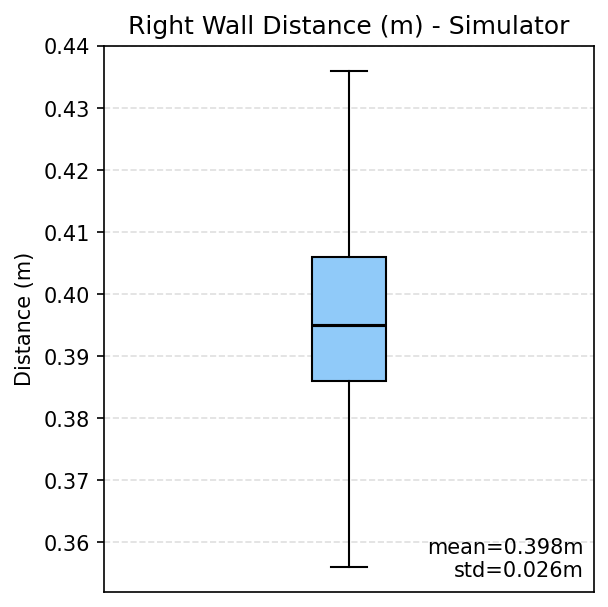
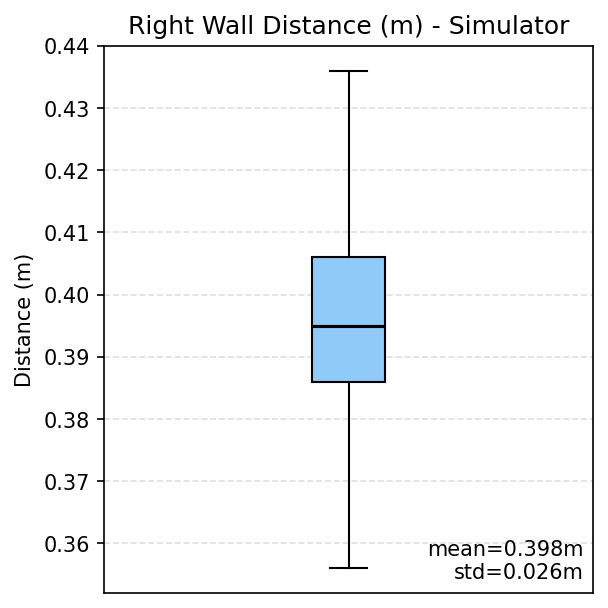
Updated the behaviour graphs to be percentage based.

diff --git a/miscellaneous/data_analysis/metrics_analysis/metrics_parser.py b/miscellaneous/data_analysis/metrics_analysis/metrics_parser.py
@@ -52,23 +52,21 @@ def is_cmd_vel_valid(action, pattern):
     linear_x, angular_z = float(m.group(1)), float(m.group(2))
     return abs(linear_x - float(p.group(1))) < 0.05 and abs(angular_z - float(p.group(2))) < 0.1
 
-def wilson_ci(count, n):
-    return proportion_confint(count, n, method="wilson")
-
 # LOAD DATA
 
 def load_trips(data_dir):
     trips = {}
-
+    device_type = ""
     for filename in os.listdir(data_dir):
         if filename.endswith(".json"):
             path = os.path.join(data_dir, filename)
             trip_type = "_".join(filename.split("_")[:-1])
+            device_type = filename.split("_")[-1].split(".")[0]
 
             with open(path, "r") as f:
                 trips[trip_type] = json.load(f)
 
-    return trips
+    return trips, device_type
 
 # COMPUTE METRICS
 
@@ -154,44 +152,59 @@ def get_wall_distances(trips):
 
 # PLOTS
 
-def plot_behaviours(outcomes):
+def plot_behaviours(outcomes, device_type):
+    valid_outcome_types = [o for o in TRIP_OUTCOMES if o != TRIP_OUTCOMES[2]]
+    valid_outcomes = {
+        t: {o: inner.get(o, 0) for o in valid_outcome_types}
+        for t, inner in outcomes.items()
+    }
+
     x = np.arange(len(TRIP_TYPES))
-    width  = 0.25
-    offset = [-1, 0, 1]
-    fig, ax = plt.subplots(figsize=(11, 4))
+    width = 0.5
+    fig, ax = plt.subplots(figsize=(8, 4))
 
-    for i, outcome in enumerate(TRIP_OUTCOMES):
-        values, yerr_low, yerr_high = [], [], []
+    success_vals, failure_vals = [], []
+    ci_low, ci_high = [], []
 
-        for t in TRIP_TYPES:
-            n_success = outcomes[t][outcome]
-            n_total   = sum(outcomes[t].values())
+    for t in TRIP_TYPES:
+        n_success = valid_outcomes[t][TRIP_OUTCOMES[0]]
+        n_total   = sum(valid_outcomes[t].values())
+        pct_s = (n_success / n_total * 100) if n_total > 0 else 0
+        pct_f = 100 - pct_s
 
-            lo, hi = proportion_confint(n_success, n_total, method="wilson")
-            values.append(n_success)
-            yerr_low.append(n_success - lo * n_total)
-            yerr_high.append(hi * n_total - n_success)
+        lo, hi = proportion_confint(n_success, n_total, method="wilson")
+        success_vals.append(pct_s)
+        failure_vals.append(pct_f)
+        ci_low.append(max(0, (n_success / n_total - lo) * 100))
+        ci_high.append(max(0, (hi - n_success / n_total) * 100))
 
-        yerr = [yerr_low, yerr_high]
-        bars = ax.bar(
-            x + offset[i] * width, values, width,
-            label=outcome, color=COLORS[outcome],
-            yerr=yerr, capsize=4, error_kw={"elinewidth": 1.2, "ecolor": "black"}
-        )
-        ax.bar_label(bars, padding=3, fontsize=8)
+    _ = ax.bar(x, success_vals, width, label=TRIP_OUTCOMES[0], color=COLORS[TRIP_OUTCOMES[0]])
+    _ = ax.bar(x, failure_vals, width, bottom=success_vals, label=TRIP_OUTCOMES[1], color=COLORS[TRIP_OUTCOMES[1]])
+
+    ax.errorbar(
+        x, success_vals,
+        yerr=[ci_low, ci_high],
+        fmt="none", ecolor="black", elinewidth=1.2, capsize=4
+    )
+
+    for xi, (sv, fv) in enumerate(zip(success_vals, failure_vals)):
+        ax.text(xi, sv / 2, f"{sv:.1f}%", ha="center", va="center", fontsize=8, color="white", fontweight="bold")
+        if fv > 0:
+            ax.text(xi, sv + fv / 2, f"{fv:.1f}%", ha="center", va="center", fontsize=8, color="white", fontweight="bold")
 
     ax.set_xticks(x)
     ax.set_xticklabels([t.replace("_", " ").title() for t in TRIP_TYPES], rotation=15, ha="right")
-    ax.set_ylabel("Count")
-    ax.set_title("Success Rate of Individual Behaviours in the Simulator")
+    ax.set_ylabel("Success Rate (%)")
+    ax.set_ylim(0, 115)
+    ax.set_title(f"Success Rate of Individual Behaviours - {device_type.capitalize()}")
 
     ci_handle = Line2D([0], [0], color="black", linewidth=1.2, label="95% Wilson CI")
-    handles,_ = ax.get_legend_handles_labels()
+    handles, _ = ax.get_legend_handles_labels()
     ax.legend(
         handles=handles + [ci_handle],
         loc="upper center",
         bbox_to_anchor=(0.5, -0.18),
-        ncol=4,
+        ncol=3,
         frameon=True,
         framealpha=0.9,
         fontsize=9,
@@ -199,14 +212,12 @@ def plot_behaviours(outcomes):
         handletextpad=0.6
     )
 
-    ax.set_ylim(0, max(outcomes[t][o] for t in TRIP_TYPES for o in TRIP_OUTCOMES) + 6)
     ax.grid(axis="y", linestyle="--", alpha=0.4)
-
     plt.tight_layout(pad=0.5)
-    plt.savefig("plots/behaviour_plot_simulator.png", dpi=150, bbox_inches="tight")
+    plt.savefig(f"plots/behaviour_plot_{device_type}.png", dpi=150, bbox_inches="tight")
     plt.close()
 
-def plot_wall_distances(distances):
+def plot_wall_distances(distances, device_type):
     fig, ax = plt.subplots(figsize=(4, 4))
     q1, q3 = np.percentile(distances, [25, 75])
     iqr = q3 - q1
@@ -225,19 +236,19 @@ def plot_wall_distances(distances):
 
     ax.set_xticks([])
     ax.set_ylabel("Distance (m)")
-    ax.set_title("Right Wall Distance (m) - Simulator")
+    ax.set_title(f"Right Wall Distance (m) - {device_type.capitalize()}")
     ax.grid(axis="y", linestyle="--", alpha=0.4)
 
     plt.tight_layout(pad=0.5)
-    plt.savefig("plots/wall_distances_simulator.png", dpi=150, bbox_inches="tight")
+    plt.savefig(f"plots/wall_distances_{device_type}.png", dpi=150, bbox_inches="tight")
     plt.close()
 
 def main():
-    trips = load_trips(DATA_DIR)
+    trips, device_type = load_trips(DATA_DIR)
     outcomes = compute_outcome_counts(trips)
     distances = get_wall_distances(trips)
 
-    plot_behaviours(outcomes=outcomes)
-    plot_wall_distances(distances=distances)
+    plot_behaviours(outcomes=outcomes, device_type=device_type)
+    plot_wall_distances(distances=distances, device_type=device_type)
 if __name__ == "__main__":
     main()
